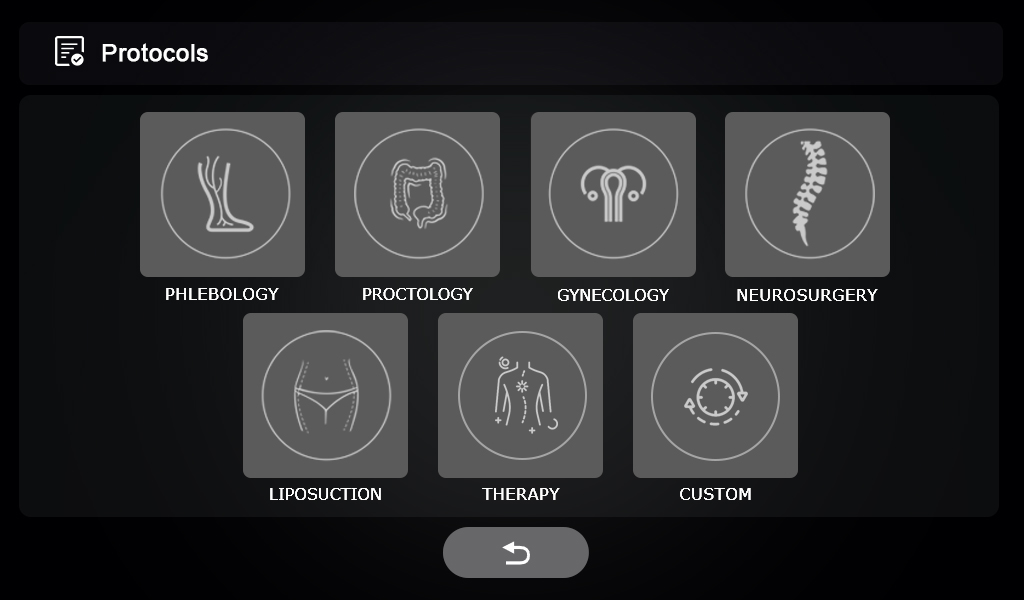
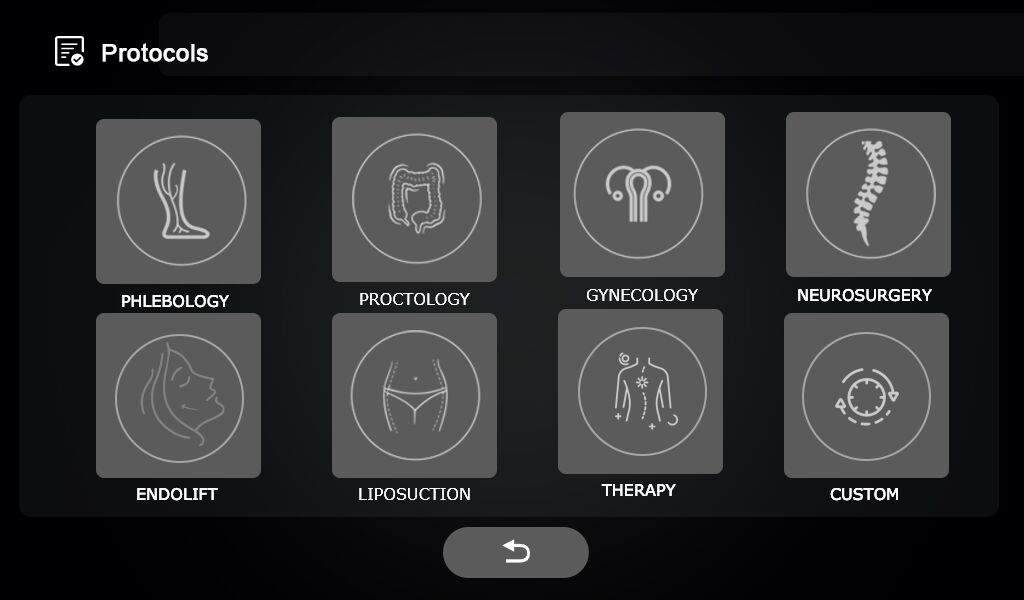
代码更新
1:添加新治疗方案

diff --git a/MCU_Application/MainApp/preSchemeDual_1470.c b/MCU_Application/MainApp/preSchemeDual_1470.c
@@ -12,6 +12,7 @@ myScheme_t sDermatology[32];//5
 myScheme_t sLiposuction[32];//6
 myScheme_t sDentistry[32];//7
 myScheme_t sTherapy[32];//8
+myScheme_t sEndolift[32];//9
 /*****************************************************************************/
 void goNextScheme(void){//切换下一个方案
 	switch(NVRAM0[DM_SCHEME_CLASSIFY]){
@@ -68,7 +69,13 @@ void goNextScheme(void){//切换下一个方案
 				ADDS1(DM_SCHEME_INDEX);
 			}
 			break;
-		}	
+		}
+		case SCHEME_ENDOLIFT:{
+			if(NVRAM0[DM_SCHEME_INDEX] < (CONFIG_ENDOLIFT_SIZE - 1)){
+				ADDS1(DM_SCHEME_INDEX);
+			}
+			break;
+		}
 		case SCHEME_CUSTIOM:{
 			if(NVRAM0[DM_SCHEME_INDEX] < (CONFIG_CUSTIOM_SIZE - 1)){
 				ADDS1(DM_SCHEME_INDEX);
@@ -86,6 +93,7 @@ void goLastScheme(void){//切换上一个方案
 }
 
 void loadSelectScheme(int16_t classify, int16_t index){//将方案写入EM	
+	int16_t tmp16;
 	switch(classify){
 		case SCHEME_PHLEBOLOGY:{
 			if(NVRAM0[DM_SCHEME_INDEX] > (CONFIG_PHLEBOLOGY_SIZE-1)){
@@ -213,11 +221,26 @@ void loadSelectScheme(int16_t classify, int16_t index){//将方案写入EM
 			NVRAM0[EM_LASER_NEGWIDTH] = sTherapy[index].negwidth;			
 			break;
 		}
+		case SCHEME_ENDOLIFT:{
+			if(index > (CONFIG_ENDOLIFT_SIZE - 1)){
+				index = (CONFIG_ENDOLIFT_SIZE - 1);
+			}
+			strcpy((char*)(&NVRAM0[EM_LASER_SCHEME_NAME]), (char*)(sEndolift[index].name));
+			NVRAM0[EM_LASER_CHANNEL_SELECT] = FDRAM0[index * 64 + FD_LASER_CHANNEL_SELECT];
+			NVRAM0[EM_LASER_PULSE_MODE] = FDRAM0[index * 64 + FD_LASER_PULSE_MODE];
+			NVRAM0[EM_LASER_POWER_CH0] = FDRAM0[index * 64 + FD_LASER_POWER_CH0];
+			NVRAM0[EM_LASER_POWER_CH1] = FDRAM0[index * 64 + FD_LASER_POWER_CH1];
+			NVRAM0[EM_LASER_POWER_635] = FDRAM0[index * 64 + FD_LASER_POWER_RED];
+			NVRAM0[EM_LASER_POSWIDTH] = FDRAM0[index * 64 + FD_LASER_POSWIDTH];
+			NVRAM0[EM_LASER_NEGWIDTH] = FDRAM0[index * 64 + FD_LASER_NEGWIDTH];				
+			break;
+		}
 		case SCHEME_CUSTIOM:{
 			if(index > (CONFIG_CUSTIOM_SIZE - 1)){
 				index = (CONFIG_CUSTIOM_SIZE - 1);
-			}
-			memcpy((char*)(&NVRAM0[EM_LASER_SCHEME_NAME]), (char*)(&FDRAM0[index * 64 + FD_LASER_SCHEME_NAME]) , 112);
+			}		
+			tmp16 = ((EM_LASER_CHANNEL_SELECT - EM_LASER_SCHEME_NAME + 1) * 2);  
+			memcpy((char*)(&NVRAM0[EM_LASER_SCHEME_NAME]), (char*)(&FDRAM0[index * 64 + FD_LASER_SCHEME_NAME]) , tmp16);
 			NVRAM0[EM_LASER_CHANNEL_SELECT] = FDRAM0[index * 64 + FD_LASER_CHANNEL_SELECT];
 			NVRAM0[EM_LASER_PULSE_MODE] = FDRAM0[index * 64 + FD_LASER_PULSE_MODE];
 			NVRAM0[EM_LASER_POWER_CH0] = FDRAM0[index * 64 + FD_LASER_POWER_CH0];
@@ -657,6 +680,130 @@ void schemeInit(uint8_t reDef){//治疗方案初始化
 	p->power_red = 1;
 	p->poswidth = 1000;
 	p->negwidth = 5000;	
+	
+	//1470nm Endolift
+	p = &sEndolift[0];
+	p->name = "Face Lower eyelids Lev1";
+	
+	p = &sEndolift[1];
+	p->name = "Face Lower eyelids Lev2";
+	
+	p = &sEndolift[2];
+	p->name = "Face Lower eyelids Lev3";
+	
+	p = &sEndolift[3];
+	p->name = "Face Cheeks Lev1";
+	
+	p = &sEndolift[4];
+	p->name = "Face Cheeks Lev2";
+	
+	p = &sEndolift[5];
+	p->name = "Face Cheeks Lev3";
+	
+	p = &sEndolift[6];
+	p->name = "Face Mandib bord Lev1";
+	
+	p = &sEndolift[7];
+	p->name = "Face Mandib bord Lev2";
+	
+	p = &sEndolift[8];
+	p->name = "Face Mandib bord Lev3";
+	
+	p = &sEndolift[9];
+	p->name = "Face Under chin Lev1";
+	
+	p = &sEndolift[10];
+	p->name = "Face Under chin Lev2";
+	
+	p = &sEndolift[11];
+	p->name = "Face Under chin Lev3";
+	
+	p = &sEndolift[12];
+	p->name = "Face Neck Lev1";
+	
+	p = &sEndolift[13];
+	p->name = "Face Neck Lev2";
+	
+	p = &sEndolift[14];
+	p->name = "Face Neck Lev3";
+	
+	p = &sEndolift[15];
+	p->name = "Body Arms Lev1";
+	
+	p = &sEndolift[16];
+	p->name = "Body Arms Lev2";
+	
+	p = &sEndolift[17];
+	p->name = "Body Arms Lev3";
+	
+	p = &sEndolift[18];
+	p->name = "Body Abdomen Lev1";
+	
+	p = &sEndolift[19];
+	p->name = "Body Abdomen Lev2";
+	
+	p = &sEndolift[20];
+	p->name = "Body Abdomen Lev3";
+	
+	p = &sEndolift[21];
+	p->name = "Body Sides Lev1";
+	
+	p = &sEndolift[22];
+	p->name = "Body Sides Lev2";
+	
+	p = &sEndolift[23];
+	p->name = "Body Sides Lev3";
+	
+	p = &sEndolift[24];
+	p->name = "Body Trochanter Lev1";
+	
+	p = &sEndolift[25];
+	p->name = "Body Trochanter Lev2";
+	
+	p = &sEndolift[26];
+	p->name = "Body Trochanter Lev3";
+	
+	p = &sEndolift[27];
+	p->name = "Body Inside led Lev1";
+	
+	p = &sEndolift[28];
+	p->name = "Body Inside led Lev2";
+	
+	p = &sEndolift[29];
+	p->name = "Body Inside led Lev3";
+	
+	p = &sEndolift[30];
+	p->name = "Body Anckle Lev1";
+	
+	p = &sEndolift[31];
+	p->name = "Body Anckle Lev2";
+	
+	p = &sEndolift[32];
+	p->name = "Body Anckle Lev3";
+	
+	
+	p = &sEndolift[1];
+	p = &sEndolift[2];
+	p = &sEndolift[3];
+	p = &sEndolift[4];
+	p = &sEndolift[5];
+	p = &sEndolift[6];
+	p = &sEndolift[7];
+	p = &sEndolift[8];
+	p = &sEndolift[9];
+	p = &sEndolift[10];
+	p = &sEndolift[11];
+	p = &sEndolift[12];
+	p = &sEndolift[13];
+	p = &sEndolift[14];
+	p = &sEndolift[15];
+	p = &sEndolift[16];
+	p = &sEndolift[17];
+	p = &sEndolift[18];
+	p = &sEndolift[19];
+	p = &sEndolift[20];
+	p = &sEndolift[21];
+	
 	
 	//Liposuction
 	//1470nm, 3w CW

diff --git a/MCU_Application/sPlc/sPlc.c b/MCU_Application/sPlc/sPlc.c
@@ -54,7 +54,7 @@ void sPlcAssertRegisterAddress(uint16_t adr){//检查寄存器地址
 #endif
 }
 void sPlcNvramLoad(void){//从EPROM中载入NVRAM MR和DM
-	uint32_t crc32_mr, crc32_dm;
+	uint32_t crc32_mr, crc32_dm, crc32;
 	uint32_t crc32_eprom_mr, crc32_eprom_dm;
 	memset((uint8_t*)NVRAM0, 0x0, (CONFIG_NVRAM_SIZE * 2));
 	//从EPROM中恢复MR NVRAM
@@ -70,18 +70,6 @@ void sPlcNvramLoad(void){//从EPROM中载入NVRAM MR和DM
 	memcpy((uint8_t*)NVRAM1, (uint8_t*)NVRAM0, (CONFIG_NVRAM_SIZE * 2));
 	printf("%s,%d,%s:MR EPROM CRC:0x%08X,MR CALC CRC:0x%08X\n",__FILE__, __LINE__, __func__, crc32_eprom_mr, crc32_mr);
 	printf("%s,%d,%s:DM EPROM CRC:0x%08X,DM CALC CRC:0x%08X\n",__FILE__, __LINE__, __func__, crc32_eprom_dm, crc32_dm);
-	
-//	#define CONFIG_EPROM_MEDICAL_CRC							(31458L)//4B 治疗历史 CRC32 硬件计算
-//#define CONFIG_EPROM_CALB_CRC									(31462L)//4B 功率校准表 CRC32 硬件计算
-//#define CONFIG_EPROM_CALB_BK_CRC							(31466L)//4B 备份功率校准表 CRC32 硬件计算
-//#define CONFIG_EPROM_MR_CRC										(31470L)//4B MR NVRAM CRC32 硬件计算
-//#define CONFIG_EPROM_DM_CRC										(31474L)//4B DM NVRAM CRC32 硬件计算
-//#define CONFIG_EPROM_FD_CRC										(31478L)//4B FD NVRAM CRC32 硬件计算
-//#define CONFIG_EPROM_MCU_FW_CRC								(31482L)//4B MCU固件CRC32值 软件计算
-//#define CONFIG_EPROM_LCD_FW_CRC								(31486L)//4B LCD固件CRC32值 软件计算
-//#define CONFIG_EPROM_CFG_CRC									(31480L)//4B deviceConfig CRC32值 硬件计算
-//#define CONFIG_EPROM_LOG_CRC									(31484L)//4B logInfo CRC32值 硬件计算
-	printf("%s,%d,%s:DM EPROM CRC:0x%08X\n")
 	if((crc32_eprom_mr != crc32_mr) && (crc32_eprom_dm != crc32_dm)){
 		printf("%s,%d,%s:load NVRAM crc fail...\n",__FILE__, __LINE__, __func__);
 	}

diff --git a/MCU_Application/sPlc/BoardConfig.h b/MCU_Application/sPlc/BoardConfig.h
@@ -905,9 +905,21 @@ extern uint16_t audioSineTable[];
 #define SET_RAIM_TIM_ON												HAL_TIM_PWM_Start(&htim9, TIM_CHANNEL_2)
 #define SET_RAIM_TIM_PWM(b)										__HAL_TIM_SET_COMPARE(&htim9, TIM_CHANNEL_2, b)
 
+#define SET_RAIM_SHDN(b)			                __nop()
+#define SET_RAIM_SHDN_ON                      __nop()
+#define SET_RAIM_SHDN_OFF                     __nop()
+#define FLIP_RAIM_SHDN                        __nop()
+#define GET_RAIM_SHDN													0
+
 #define SET_GAIM_TIM_OFF											__nop()
 #define SET_GAIM_TIM_ON												__nop()
 #define SET_GAIM_TIM_PWM(b)										__nop()
+
+#define SET_GAIM_SHDN(b)			                __nop()
+#define SET_GAIM_SHDN_ON                      __nop()
+#define SET_GAIM_SHDN_OFF                     __nop()
+#define FLIP_GAIM_SHDN                        __nop()
+#define GET_GAIM_SHDN													__nop()
 
 //MCP41010
 #define SET_MCP41010_CS(b)										HAL_GPIO_WritePin(MCP41010_CS_GPIO_Port, MCP41010_CS_Pin, b)

diff --git a/MCU_Application/MainApp/preSchemeDual_1940.c b/MCU_Application/MainApp/preSchemeDual_1940.c
@@ -155,10 +155,12 @@ void schemeInit(uint8_t reDef){//治疗方案初始化
 }
 
 void loadSelectScheme(int16_t classify, int16_t index){//将方案写入EM		
+	int16_t tmp16;
 	if(index > (CONFIG_CUSTIOM_SIZE - 1)){
 		index = (CONFIG_CUSTIOM_SIZE - 1);
 	}
-	memcpy((char*)(&NVRAM0[EM_LASER_SCHEME_NAME]), (char*)(&FDRAM0[index * 64 + FD_LASER_SCHEME_NAME]) , 112);
+	tmp16 = ((EM_LASER_CHANNEL_SELECT - EM_LASER_SCHEME_NAME + 1) * 2);
+	memcpy((char*)(&NVRAM0[EM_LASER_SCHEME_NAME]), (char*)(&FDRAM0[index * 64 + FD_LASER_SCHEME_NAME]) , tmp16);
 	NVRAM0[EM_LASER_CHANNEL_SELECT] = FDRAM0[index * 64 + FD_LASER_CHANNEL_SELECT];
 	NVRAM0[EM_LASER_PULSE_MODE] = FDRAM0[index * 64 + FD_LASER_PULSE_MODE];
 	NVRAM0[EM_LASER_POWER_CH0] = FDRAM0[index * 64 + FD_LASER_POWER_CH0];

diff --git a/MCU_Application/MainApp/AppConfig.h b/MCU_Application/MainApp/AppConfig.h
@@ -47,6 +47,7 @@
 #define SCHEME_LIPOSUCTION														0x0007
 #define SCHEME_DENTISTRY															0x0008
 #define SCHMEM_THERAPY																0x0009
+#define SCHEME_ENDOLIFT																0x000A
 #define SCHEME_CUSTIOM																0x0000
 /*****************************************************************************/
 //BOOTLOAD配置
@@ -196,6 +197,7 @@
 #define CONFIG_PROCTOLOGY_SIZE												6
 #define CONFIG_GYNECOLOGY_SIZE												23
 #define CONFIG_ENT_SIZE																16
+#define CONFIG_ENDOLIFT_SIZE													18
 #if defined(MODEL_PVGLS_TRI_A0) ||\
 		defined(LDR2P1_G5_A1_20250731_TRIP) ||\
 		defined (LDR2P1_G5_A1_20250910_TRIP) ||\

diff --git a/MCU_Application/MainApp/dcHmiRes.h b/MCU_Application/MainApp/dcHmiRes.h
@@ -171,6 +171,7 @@
 #define GDDC_PAGE_SCHMEM_CLASSIFY_KEY_THERAPY						9
 #define GDDC_PAGE_SCHMEM_CLASSIFY_KEY_CUSTOM						10
 #define GDDC_PAGE_SCHMEM_CLASSIFY_KEY_RETURN						11
+#define GDDC_PAGE_SCHMEM_CLASSIFY_KEY_ENDOLIFT					12
 /*****************************************************************************/
 //方案页面
 #define GDDC_PAGE_SCHEME_KEY_RENAME											1//更名按键
